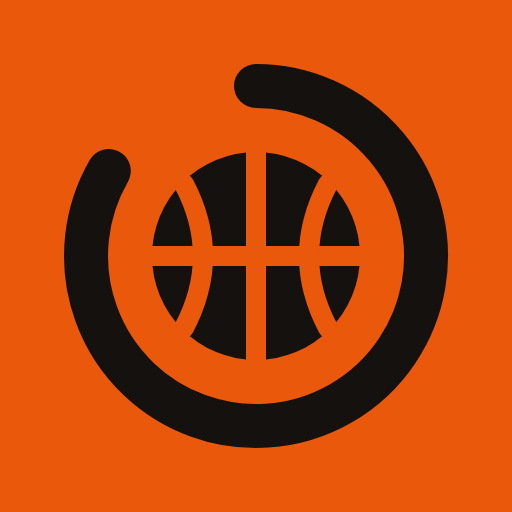
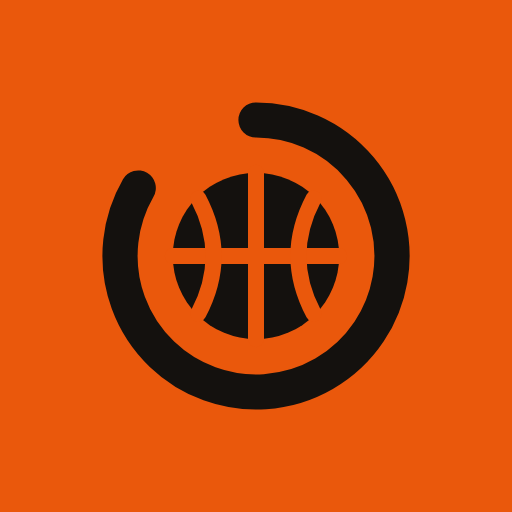
Publica 6b465fa

Changed region(s): [[0.125, 0.125, 0.875, 0.875]]

diff --git a/sw.js b/sw.js
@@ -1,1 +1,1 @@
-if(!self.define){let e,i={};const n=(n,s)=>(n=new URL(n+".js",s).href,i[n]||new Promise(i=>{if("document"in self){const e=document.createElement("script");e.src=n,e.onload=i,document.head.appendChild(e)}else e=n,importScripts(n),i()}).then(()=>{let e=i[n];if(!e)throw new Error(`Module ${n} didn’t register its module`);return e}));self.define=(s,r)=>{const o=e||("document"in self?document.currentScript.src:"")||location.href;if(i[o])return;let l={};const f=e=>n(e,o),d={module:{uri:o},exports:l,require:f};i[o]=Promise.all(s.map(e=>d[e]||f(e))).then(e=>(r(...e),l))}}define(["./workbox-2fbc6a65"],function(e){"use strict";self.addEventListener("message",e=>{e.data&&"SKIP_WAITING"===e.data.type&&self.skipWaiting()}),e.precacheAndRoute([{url:"index.html",revision:"46e4cb7f00ebb828e9d7ec9f7ef74a86"},{url:"icon.svg",revision:"3b0634df4e2166b8c6c0dc923d603bfa"},{url:"icon-maskable-512.png",revision:"f0aa70f737a0abbbffe0857e6028ac37"},{url:"icon-512.png",revision:"db9add04ad070fc631d9f4dd870ed240"},{url:"icon-192.png",revision:"70f1d6275e98a59efbd010a3278f745a"},{url:"favicon.svg",revision:"17357aaf25df46f0fcf388ec06fb2e92"},{url:"favicon.ico",revision:"80f1facf3e6172d22d155f56707b306f"},{url:"apple-touch-icon.png",revision:"164d0c509deef2370f0d59b3b68077ae"},{url:"assets/workbox-window.prod.es5-Bd17z0YL.js",revision:null},{url:"assets/inter-latin-var-C2S99t-D.woff2",revision:null},{url:"assets/index-EON6lcBr.js",revision:null},{url:"assets/index-DM_OVXes.css",revision:null},{url:"assets/icons-CcrQRJdJ.svg",revision:null},{url:"assets/court-motif-BFOuLkBt.svg",revision:null},{url:"assets/barlow-condensed-latin-700-B9NQhHK3.woff2",revision:null},{url:"assets/barlow-condensed-latin-600-BN11TKSn.woff2",revision:null},{url:"icon-192.png",revision:"70f1d6275e98a59efbd010a3278f745a"},{url:"icon-512.png",revision:"db9add04ad070fc631d9f4dd870ed240"},{url:"icon-maskable-512.png",revision:"f0aa70f737a0abbbffe0857e6028ac37"},{url:"manifest.webmanifest",revision:"4ee26a994020d7945303d389cc45b0f0"}],{}),e.cleanupOutdatedCaches(),e.registerRoute(new e.NavigationRoute(e.createHandlerBoundToURL("index.html")))});
+if(!self.define){let e,i={};const n=(n,s)=>(n=new URL(n+".js",s).href,i[n]||new Promise(i=>{if("document"in self){const e=document.createElement("script");e.src=n,e.onload=i,document.head.appendChild(e)}else e=n,importScripts(n),i()}).then(()=>{let e=i[n];if(!e)throw new Error(`Module ${n} didn’t register its module`);return e}));self.define=(s,r)=>{const o=e||("document"in self?document.currentScript.src:"")||location.href;if(i[o])return;let d={};const l=e=>n(e,o),a={module:{uri:o},exports:d,require:l};i[o]=Promise.all(s.map(e=>a[e]||l(e))).then(e=>(r(...e),d))}}define(["./workbox-2fbc6a65"],function(e){"use strict";self.addEventListener("message",e=>{e.data&&"SKIP_WAITING"===e.data.type&&self.skipWaiting()}),e.precacheAndRoute([{url:"index.html",revision:"46e4cb7f00ebb828e9d7ec9f7ef74a86"},{url:"icon.svg",revision:"a2da49dba98df7a96db72dc522adb6c8"},{url:"icon-maskable-512.png",revision:"a4d37acea354d6717b772a0e93484251"},{url:"icon-512.png",revision:"db9add04ad070fc631d9f4dd870ed240"},{url:"icon-192.png",revision:"70f1d6275e98a59efbd010a3278f745a"},{url:"favicon.svg",revision:"17357aaf25df46f0fcf388ec06fb2e92"},{url:"favicon.ico",revision:"80f1facf3e6172d22d155f56707b306f"},{url:"apple-touch-icon.png",revision:"164d0c509deef2370f0d59b3b68077ae"},{url:"assets/workbox-window.prod.es5-Bd17z0YL.js",revision:null},{url:"assets/inter-latin-var-C2S99t-D.woff2",revision:null},{url:"assets/index-EON6lcBr.js",revision:null},{url:"assets/index-DM_OVXes.css",revision:null},{url:"assets/icons-CcrQRJdJ.svg",revision:null},{url:"assets/court-motif-BFOuLkBt.svg",revision:null},{url:"assets/barlow-condensed-latin-700-B9NQhHK3.woff2",revision:null},{url:"assets/barlow-condensed-latin-600-BN11TKSn.woff2",revision:null},{url:"icon-192.png",revision:"70f1d6275e98a59efbd010a3278f745a"},{url:"icon-512.png",revision:"db9add04ad070fc631d9f4dd870ed240"},{url:"icon-maskable-512.png",revision:"a4d37acea354d6717b772a0e93484251"},{url:"manifest.webmanifest",revision:"4ee26a994020d7945303d389cc45b0f0"}],{}),e.cleanupOutdatedCaches(),e.registerRoute(new e.NavigationRoute(e.createHandlerBoundToURL("index.html")))});
